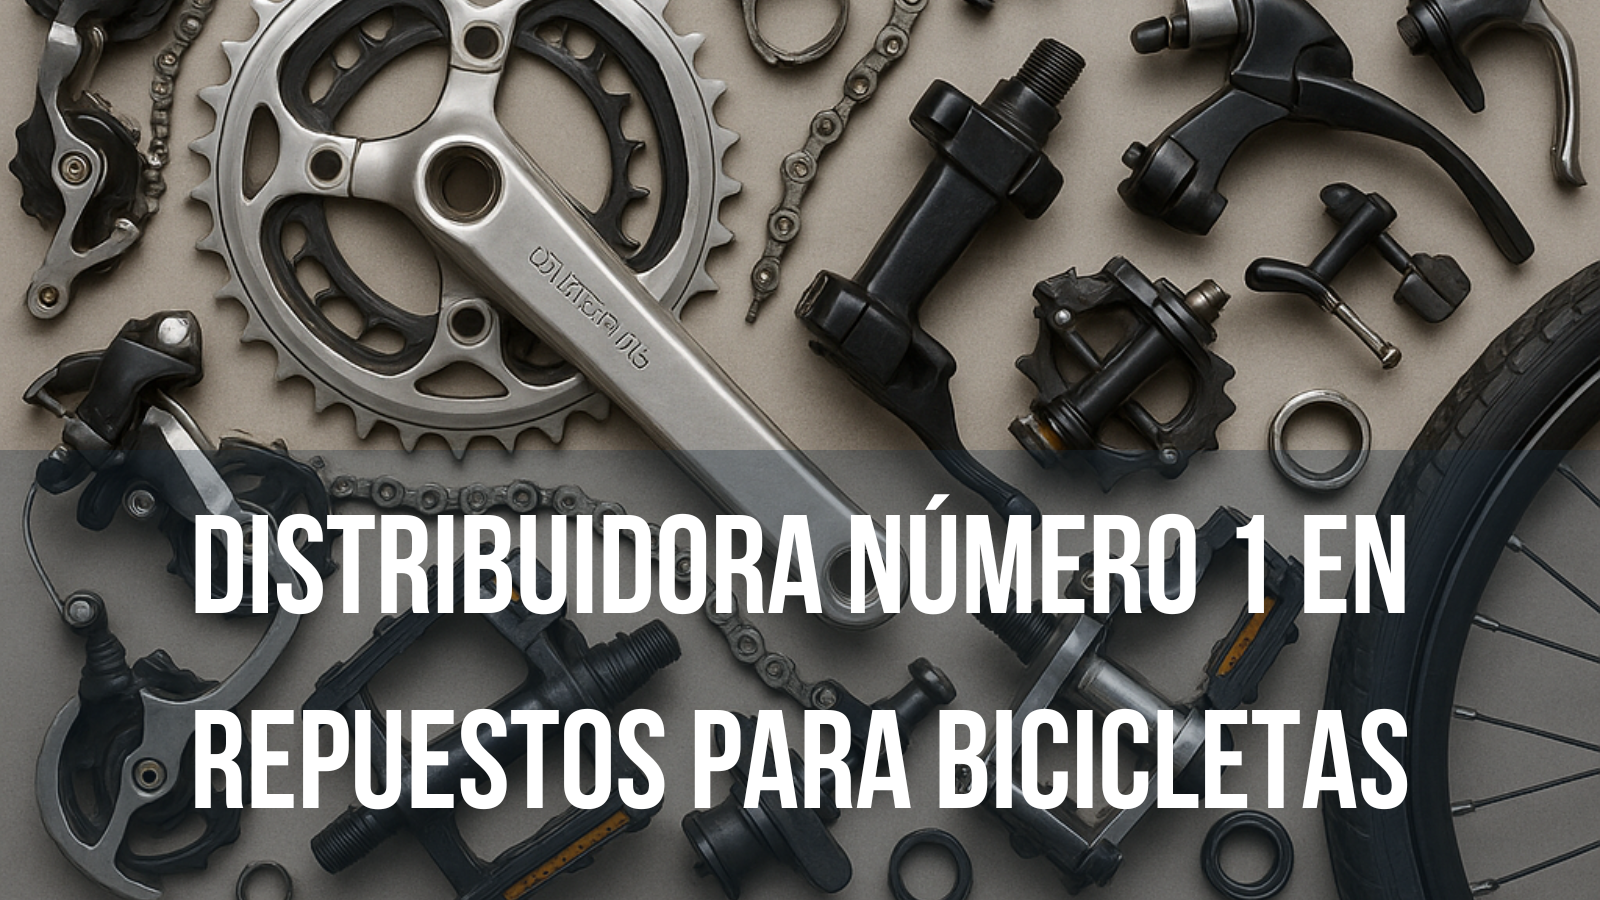
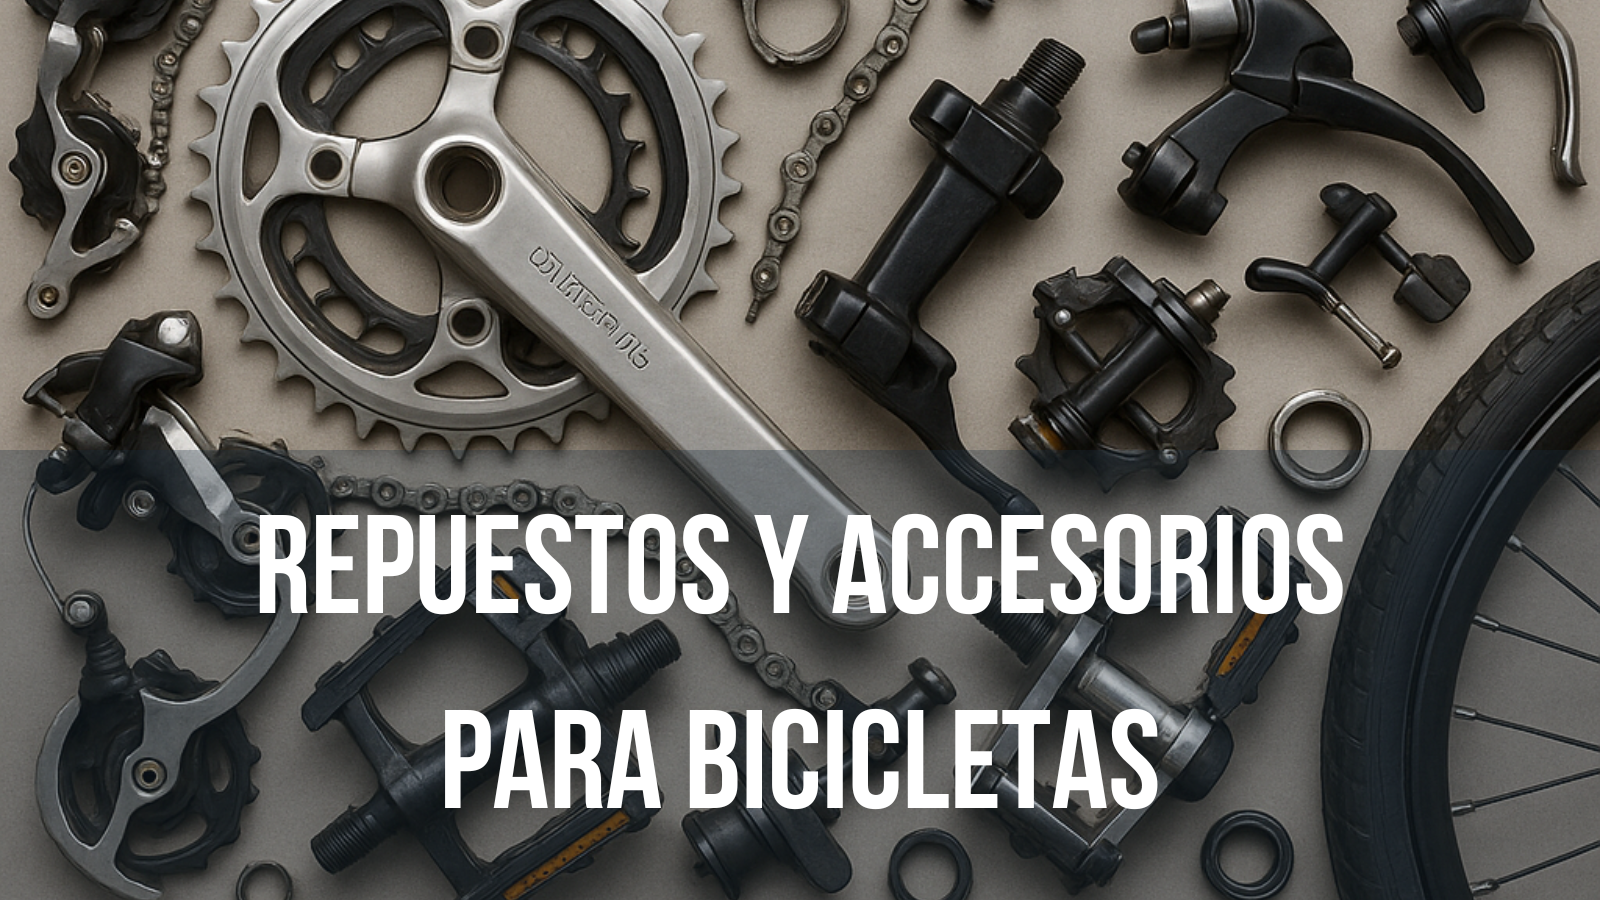
change images froms carrusel

Changed region(s): [[0.125, 0.7778, 0.875, 0.9022], [0.125, 0.5289, 0.875, 0.6844]]

diff --git a/css/styles.css b/css/styles.css
@@ -141,7 +141,7 @@ header {
 
 .carrusel {
   position: relative;
-  max-width: 800px;
+  max-width: 1200px;
   margin: auto;
   overflow: hidden;
 }
